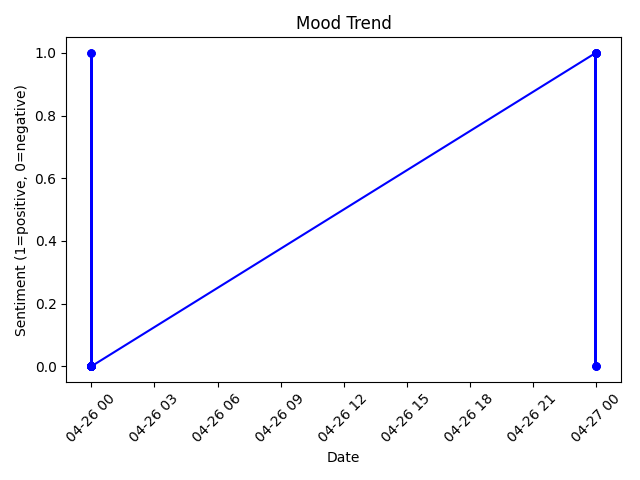
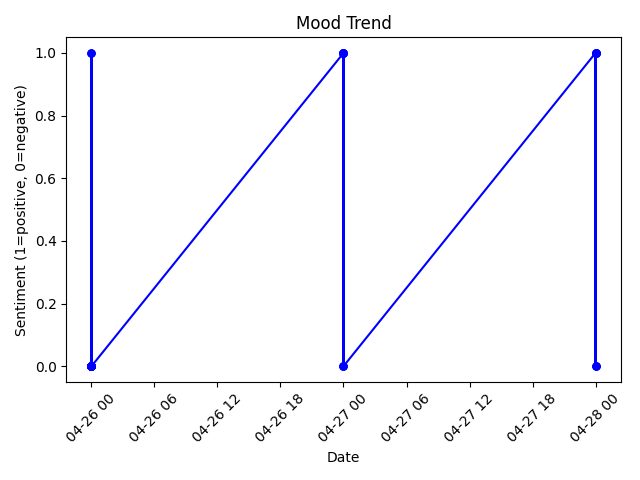
增加了历史记录

diff --git a/mood/templates/mood/index.html b/mood/templates/mood/index.html
@@ -4,7 +4,8 @@
 <head>
     <meta charset="UTF-8">
     <title>情绪树洞 - Mood Tracker</title>
-    <link rel="stylesheet" href="{% static 'style.css' %}">
+    <link rel="stylesheet" href="{% static 'style.css' %}?v={% now 'U' %}">
+
 </head>
 <body>
     <div class="container">
@@ -23,24 +24,19 @@
 
         <div class="trend">
             <h2>我的心情趋势</h2>
-            <img src="{% static 'mood_trend.png' %}" alt="心情趋势图">
+            <img src="{% static 'mood_trend.png' %}?v={% now 'U' %}" alt="情绪趋势图">
+
         </div>
 
         <section class="history-section">
             <h2>历史心情记录</h2>
             <div class="history-list">
                 {% if records %}
-                    {% for rec in records %}
-                        <div class="mood-card">
-                            <p class="record-date">{{ rec.date }}</p>
-                            <p class="record-text">{{ rec.text }}</p>
-                            <p class="record-emotion">
-                              {% if rec.sentiment == 'positive' %}
-                                积极
-                              {% else %}
-                                消极
-                              {% endif %}
-                            </p>
+                    {% for record in records %}
+                        <div class="record">
+                            <span class="date">{{ record.date }}</span>
+                            <span class="text">{{ record.text }}</span>
+                            <span class="sentiment">{{ record.sentiment }}</span>  <!-- 统一字段名 -->
                         </div>
                     {% endfor %}
                 {% else %}

diff --git a/mood/views.py b/mood/views.py
@@ -8,45 +8,49 @@ from django.shortcuts import render, redirect
 from datetime import date
 from .utils import load_records, save_record
 from .sentiment_analysis import analyze_sentiment, generate_motivational_quote
+
+
 def index(request):
+    generate_mood_trend()  # 确保图表生成
     records = load_records()
+
+    # 初始化语录为 None
+    quote = None
 
     if request.method == 'POST':
         mood_text = request.POST.get('mood_note')
         if mood_text:
-            # 情绪分析
-            sentiment_result = analyze_sentiment(mood_text)  # 返回 'positive' 或 'negative'
-
-            # 转换成中文情绪
+            sentiment_result = analyze_sentiment(mood_text)  # 分析情绪
             emotion = '积极' if sentiment_result == 'positive' else '消极'
 
-            # 保存记录
+            # 保存记录到数据库
             save_record(mood_text, emotion)
 
-            # 为展示添加最新一条记录
-            records.append({
-                'date': date.today().strftime('%Y-%m-%d'),
-                'text': mood_text,
-                'emotion': emotion
-            })
+            # 根据实际情绪生成语录
+            quote = generate_motivational_quote(sentiment_result)  # 关键修复点
 
-            return redirect('index')  # 提交后刷新页面，避免重复提交
+            return redirect('index')
 
-    # 默认展示时，给出一个每日正能量语录
-    quote = generate_motivational_quote('positive')  # 默认传 'positive'，防止出错
+    # 如果是 GET 请求，使用默认或当前情绪生成语录
+    if not quote:
+        # 此处可优化为基于最新记录的情绪生成语录
+        latest_sentiment = MoodEntry.objects.last().sentiment if MoodEntry.objects.exists() else 'positive'
+        quote = generate_motivational_quote(latest_sentiment)
 
     return render(request, 'mood/index.html', {
         'records': records,
         'quote': quote,
     })
 def generate_mood_trend():
+    # Remove any plt.rcParams['font.sans-serif'] configurations
     entries = MoodEntry.objects.all().order_by('date')
     if not entries:
-        return  # 没有记录就不画图了
+        return
 
     dates = [entry.date for entry in entries]
     sentiments = [1 if entry.sentiment == 'positive' else 0 for entry in entries]
 
+    plt.figure()
     plt.plot(dates, sentiments, marker='o', color='b', linestyle='-', markersize=5)
     plt.xlabel('Date')
     plt.ylabel('Sentiment (1=positive, 0=negative)')

diff --git a/mood/sentiment_analysis.py b/mood/sentiment_analysis.py
@@ -1,29 +1,35 @@
 from transformers import pipeline
 import random
-
+import time
 # 加载 HuggingFace 的 BERT 情感分析模型
-sentiment_analyzer = pipeline("sentiment-analysis")
-
+# 明确指定模型名称和版本
+sentiment_analyzer = pipeline(
+    task="sentiment-analysis",
+    model="distilbert/distilbert-base-uncased-finetuned-sst-2-english",
+    revision="714eb0f"  # 指定git commit hash
+)
 def analyze_sentiment(text):
     """
     使用 BERT 模型进行情绪分析
     返回 'positive' 或 'negative'
     """
     result = sentiment_analyzer(text)
-    sentiment = result[0]['label']  # 'POSITIVE' 或 'NEGATIVE'
+    sentiment_label = result[0]['label'].upper()  # 确保大写（如 'NEGATIVE'）
+    sentiment_score = result[0]['score']
+    print(f"[DEBUG] 文本: '{text}' | 标签: {sentiment_label} | 置信度: {sentiment_score:.2f}")
+    # 设置置信度阈值
+    confidence_threshold = 0.5
 
-    if sentiment == 'POSITIVE':
+    if sentiment_label == 'POSITIVE' and sentiment_score >= confidence_threshold:
         return 'positive'
-    else:
+    elif sentiment_label == 'NEGATIVE' and sentiment_score >= confidence_threshold:
         return 'negative'
-
+    else:
+        return 'neutral'  # 低置信度或模型不确定时返回中性
 def generate_motivational_quote(sentiment):
-    """
-    根据情绪生成一句励志语录
-    """
+    random.seed(time.time())
     positive_quotes = [
         "今天又是充满希望的一天！",
-        "无论昨天多么艰难，今天依然充满阳光！",
         "今天，做一个快乐的人！"
     ]
     negative_quotes = [
@@ -31,8 +37,14 @@ def generate_motivational_quote(sentiment):
         "不管今天有多难，明天一定会更好！",
         "你的坚持会带来更好的明天！"
     ]
+    neutral_quotes = [
+        "平凡的日子里，也能找到小确幸。",
+        "放慢脚步，感受当下的宁静。"
+    ]
 
     if sentiment == 'positive':
         return random.choice(positive_quotes)
-    else:
+    elif sentiment == 'negative':
         return random.choice(negative_quotes)
+    else:
+        return random.choice(neutral_quotes)

diff --git a/mood/utils.py b/mood/utils.py
@@ -1,6 +1,6 @@
 import json, os
+from .models import MoodEntry
 from datetime import date
-
 # 定义记录文件路径（这里放在应用目录下，实际可根据需要调整路径）
 DATA_FILE = os.path.join(os.path.dirname(__file__), 'mood_history.json')
 
@@ -14,14 +14,19 @@ def load_records():
         except json.JSONDecodeError:
             return []
 
-def save_record(text, sentiment):
-    """将一条新的记录追加到 JSON 文件。记录包含当前日期、心情文字和情绪。"""
-    records = load_records()
-    record = {
-        'date': date.today().strftime('%Y-%m-%d'),
-        'text': text,
-        'sentiment': sentiment
+
+
+
+def save_record(text, emotion_chinese):
+    # 将中文情绪转换为英文
+    sentiment_map = {
+        '积极': 'positive',
+        '消极': 'negative'
     }
-    records.append(record)
-    with open(DATA_FILE, 'w', encoding='utf-8') as f:
-        json.dump(records, f, ensure_ascii=False, indent=4)
+    sentiment = sentiment_map.get(emotion_chinese, 'neutral')  # 默认中性
+
+    MoodEntry.objects.create(
+        date=date.today(),
+        sentiment=sentiment,
+        mood_note=text
+    )

diff --git a/mood/models.py b/mood/models.py
@@ -1,9 +1,13 @@
 from django.db import models
 
 class MoodEntry(models.Model):
+    SENTIMENT_CHOICES = [
+        ('positive', 'Positive'),
+        ('negative', 'Negative'),
+        ('neutral', 'Neutral'),  # 新增中性选项
+    ]
     date = models.DateField()
-    sentiment = models.CharField(max_length=10)  # 'positive' 或 'negative'
-    mood_note = models.TextField()  # 用户输入的心情记录
-
+    sentiment = models.CharField(max_length=10, choices=SENTIMENT_CHOICES)  # 使用选项约束
+    mood_note = models.TextField()
     def __str__(self):
         return f'{self.date}: {self.sentiment}'
